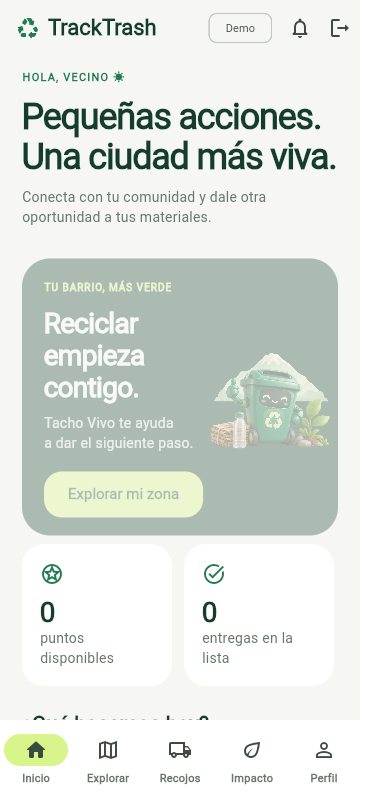
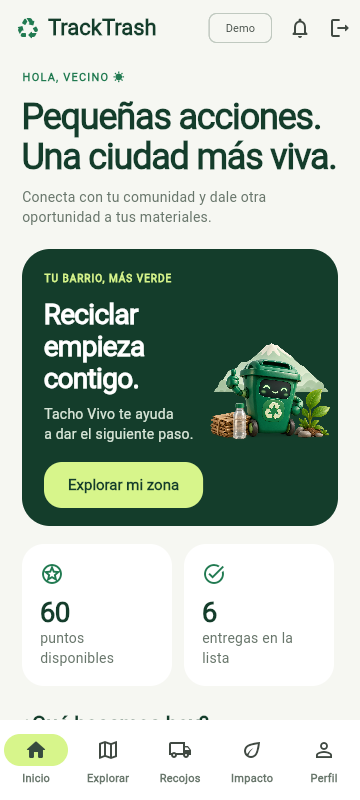
docs: registrar comprobación del contenedor y capturas finales adaptables

diff --git a/docs/VALIDACION_0_2.md b/docs/VALIDACION_0_2.md
@@ -1,0 +1,25 @@
+# Validación local · 24/10/2026
+
+Entorno: Windows, Flutter 3.41.6/Dart 3.11.4, API .NET 10 y PostgreSQL 17/PostGIS 3.5 en Docker. La API usa datos sintéticos de Development, sin Supabase remoto ni información personal real.
+
+| Comprobación | Resultado |
+|---|---|
+| Formato y flutter analyze | Sin incidencias |
+| flutter test | 19 pruebas aprobadas |
+| Backend asociado | 36 pruebas aprobadas, compilación Release sin errores/advertencias |
+| Contenedor Linux API | Usuario UID 1654; health/ready y perfil autenticado responden 200 contra PostgreSQL local |
+| Dependencias .NET | Consulta NuGet de vulnerabilidades, incluidas transitivas, sin vulnerabilidades conocidas reportadas en la fecha de revisión |
+| Build web | Completado |
+| APK Android debug | Completado; requiere instalación posterior para validar dispositivo |
+| Recorrido HTTP real en Edge headless | Crear con ubicación y autoasignación → aceptar → iniciar viaje → confirmar código → canjear beneficio |
+| Comunidad en Edge | Mapa → reportar problema → consultar bandeja → suscribir recordatorio → operador toma atención → resuelve |
+| Navegación y presentación | Anchos 360, 430 y 1280; cambio de rol y cierre de sesión sin errores JavaScript |
+| Caché | Pruebas de falla de almacenamiento sin bloquear HTTP, recuperación del mapa anterior y separación por servidor |
+
+Los scripts `tools/smoke_web.py` y `tools/smoke_community_web.py` se ejecutaron contra la API/BD reales. Habilitan semántica Flutter para interactuar con controles accesibles y comprueban respuestas del servidor. Son herramientas opcionales de QA, no parte del runtime ni sustituto de pruebas físicas. Crean datos de prueba; no eliminan solicitudes ajenas.
+
+Las capturas de [screenshots](screenshots) documentan el estado local. No demuestran precisión del hardware, carga, disponibilidad, entrega push ni cumplimiento legal. Algunos contenedores aparecen sin datos recientes deliberadamente: no se falsifica su estado para que el mapa parezca activo.
+
+CI independiente en [backend](https://github.com/CarlosFloresDev/tracktrash-backend/actions) y [mobile](https://github.com/CarlosFloresDev/tracktrash-mobile/actions). Revisar los checks del commit exacto en cada PR.
+
+Para release todavía faltan firma de distribución propia, proyecto Auth/retornos, HTTPS/hosting, políticas de privacidad, proveedor de mosaicos apropiado al tráfico, validación Android/iOS y los módulos señalados en la matriz del backend.
